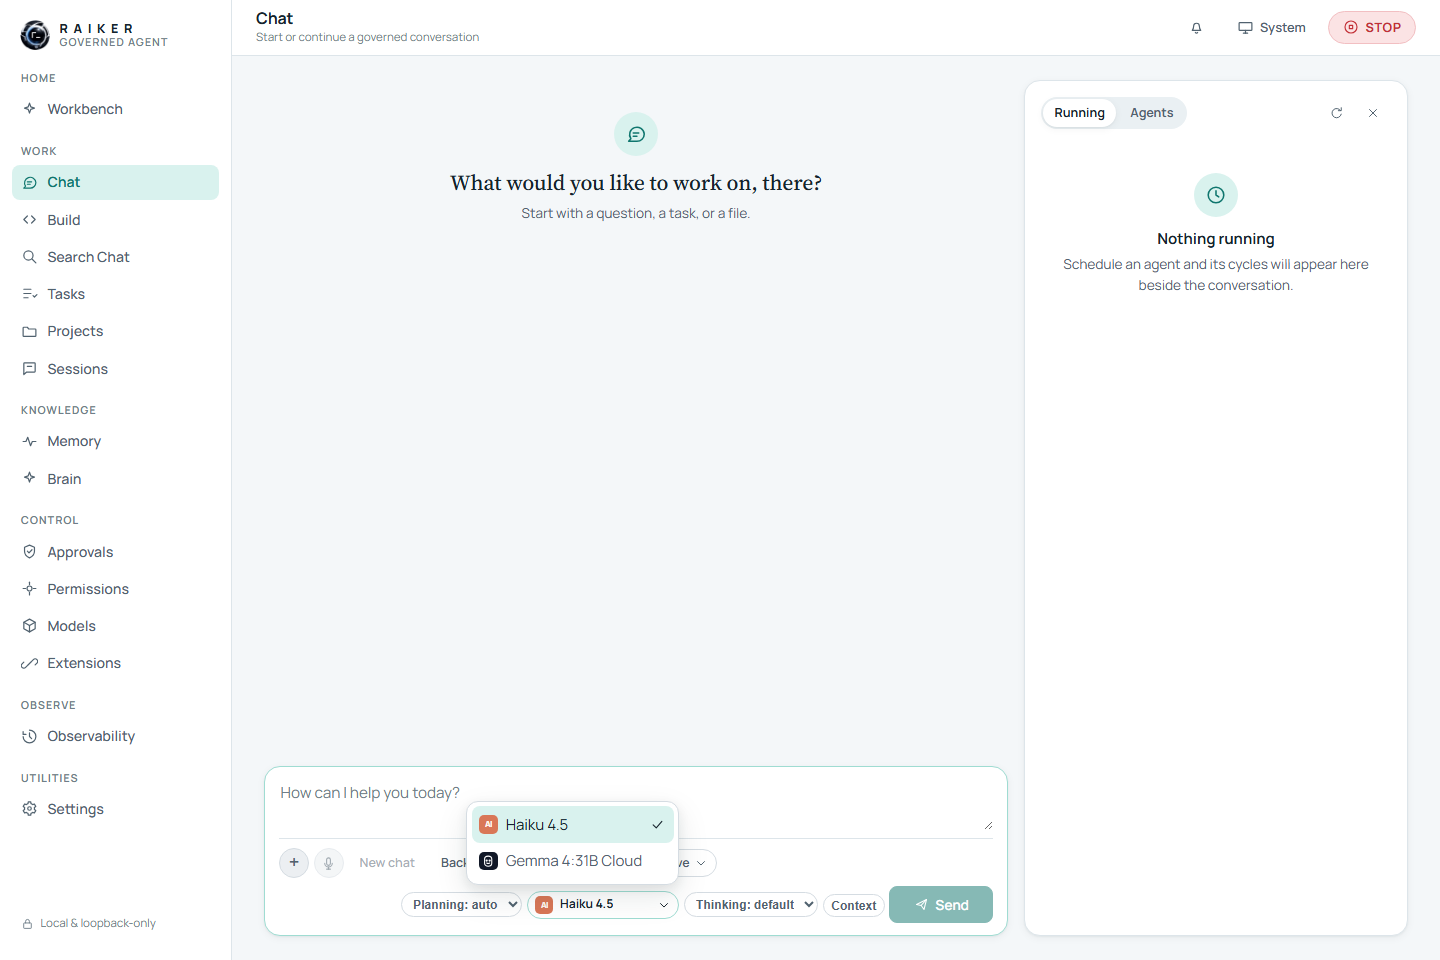
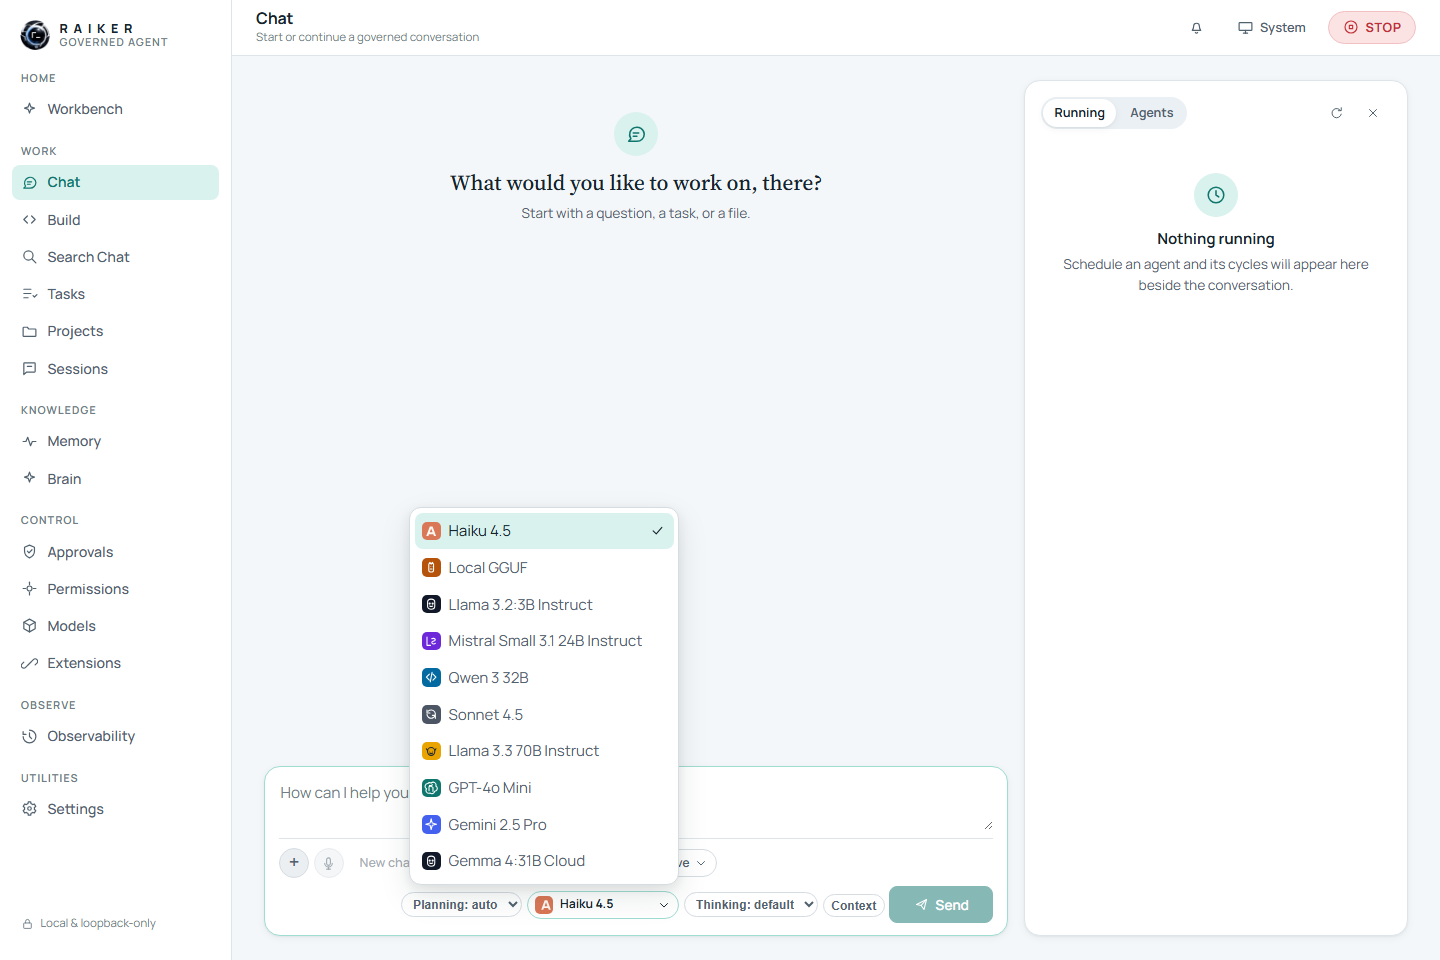
fix: cover all composer model providers

Changed region(s): [[0.2812, 0.5312, 0.4688, 0.9375]]

diff --git a/apps/web/src/lib/components/ProviderLogo.svelte b/apps/web/src/lib/components/ProviderLogo.svelte
@@ -3,23 +3,45 @@
 
   let { provider, size = 18 }: { provider: string; size?: number } = $props();
   const label = $derived(`${providerName(provider)} logo`);
-  const initials = $derived(provider === "anthropic" ? "AI" : provider === "openai" ? "O" : provider === "ollama" ? "O" : providerName(provider).slice(0, 1).toUpperCase());
+  const initials = $derived(providerName(provider).slice(0, 1).toUpperCase());
 </script>
 
-<span class:anthropic={provider === "anthropic"} class:ollama={provider === "ollama"} class:openai={provider === "openai"} class="provider-logo" role="img" aria-label={label} style={`--logo-size:${size}px`}>
-  {#if provider === "ollama"}
+<span class="provider-logo" data-provider={provider} role="img" aria-label={label} style={`--logo-size:${size}px`}>
+  {#if provider === "ollama" || provider === "ollama-cloud"}
     <svg viewBox="0 0 24 24" aria-hidden="true"><path d="M6 8.5c0-3 2.5-5 6-5s6 2 6 5v7c0 3-2.5 5-6 5s-6-2-6-5z"/><circle cx="9.5" cy="11" r="1"/><circle cx="14.5" cy="11" r="1"/><path d="M9.5 15c1.4 1 3.6 1 5 0"/></svg>
   {:else if provider === "openai"}
     <svg viewBox="0 0 24 24" aria-hidden="true"><path d="M12 3.5a4.7 4.7 0 0 1 7.8 4.9 4.7 4.7 0 0 1-1.9 8.8 4.7 4.7 0 0 1-7.8 2.8 4.7 4.7 0 0 1-5.9-6.9A4.7 4.7 0 0 1 6.1 4.3 4.7 4.7 0 0 1 12 3.5Z"/><path d="M9.2 7.4 15 10.7v6.6M8.4 16.4v-6.7l5.8-3.3"/></svg>
+  {:else if provider === "anthropic"}
+    <svg viewBox="0 0 24 24" aria-hidden="true"><path class="solid" d="M3.8 20 9.7 4h4.6l5.9 16h-3.5l-1.1-3H8.4l-1.1 3H3.8Zm5.8-6h4.8L12 7.4 9.6 14Z"/></svg>
+  {:else if provider === "gemini"}
+    <svg viewBox="0 0 24 24" aria-hidden="true"><path d="m12 3 1.8 7.2L21 12l-7.2 1.8L12 21l-1.8-7.2L3 12l7.2-1.8L12 3Z"/></svg>
+  {:else if provider === "huggingface"}
+    <svg viewBox="0 0 24 24" aria-hidden="true"><path d="M5.5 10.5 4 8m14.5 2.5L20 8M6 13a6 6 0 0 0 12 0v-1a6 6 0 0 0-12 0v1Z"/><circle cx="9.5" cy="12" r=".7" class="solid"/><circle cx="14.5" cy="12" r=".7" class="solid"/><path d="M9.5 15c1.4 1 3.6 1 5 0"/></svg>
+  {:else if provider === "openrouter"}
+    <svg viewBox="0 0 24 24" aria-hidden="true"><path d="M5 12a7 7 0 1 0 2-5M5 5v5h5M19 19v-5h-5"/></svg>
+  {:else if provider === "lm-studio" || provider === "lm-studio-remote"}
+    <svg viewBox="0 0 24 24" aria-hidden="true"><path d="M5 5v14h6M13 8c1.2-1 4.5-1 5.5.6.8 1.3.1 2.5-1.8 3.1l-1.5.5c-2.1.7-2.7 2-1.7 3.3 1.1 1.5 4.3 1.5 5.5.1"/></svg>
+  {:else if provider === "llama.cpp"}
+    <svg viewBox="0 0 24 24" aria-hidden="true"><path d="m8 7 2-3 2 3 2-3 2 3v10c0 2-2 3-4 3s-4-1-4-3V7Z"/><circle cx="10.5" cy="11" r=".7" class="solid"/><circle cx="13.5" cy="11" r=".7" class="solid"/><path d="M10.5 15h3"/></svg>
+  {:else if provider === "openai-compatible"}
+    <svg viewBox="0 0 24 24" aria-hidden="true"><path d="m9 7-5 5 5 5M15 7l5 5-5 5M13.5 4 10.5 20"/></svg>
   {:else}
-    <span>{initials}</span>
+    <svg viewBox="0 0 24 24" aria-hidden="true"><text x="12" y="16" text-anchor="middle">{initials}</text></svg>
   {/if}
 </span>
 
 <style>
-  .provider-logo { width: var(--logo-size); height: var(--logo-size); flex: 0 0 var(--logo-size); display: inline-grid; place-items: center; border-radius: 5px; background: color-mix(in srgb, var(--text-1) 10%, var(--surface)); color: var(--text-1); font-size: calc(var(--logo-size) * .46); font-weight: 800; letter-spacing: -.08em; line-height: 1; }
-  .provider-logo.anthropic { background: #d97757; color: #fff7f2; }
-  .provider-logo.ollama { background: #111827; color: #fff; }
-  .provider-logo.openai { background: #0f766e; color: #fff; }
+  .provider-logo { width: var(--logo-size); height: var(--logo-size); flex: 0 0 var(--logo-size); display: inline-grid; place-items: center; border-radius: 5px; background: color-mix(in srgb, var(--text-1) 10%, var(--surface)); color: var(--text-1); }
+  .provider-logo[data-provider="anthropic"] { background: #d97757; color: #fff7f2; }
+  .provider-logo[data-provider="ollama"], .provider-logo[data-provider="ollama-cloud"] { background: #111827; color: #fff; }
+  .provider-logo[data-provider="openai"] { background: #0f766e; color: #fff; }
+  .provider-logo[data-provider="gemini"] { background: #4361ee; color: #fff; }
+  .provider-logo[data-provider="huggingface"] { background: #e9a400; color: #1f2937; }
+  .provider-logo[data-provider="openrouter"] { background: #4b5563; color: #fff; }
+  .provider-logo[data-provider="lm-studio"], .provider-logo[data-provider="lm-studio-remote"] { background: #6d28d9; color: #fff; }
+  .provider-logo[data-provider="llama.cpp"] { background: #b45309; color: #fff; }
+  .provider-logo[data-provider="openai-compatible"] { background: #0369a1; color: #fff; }
   svg { width: 78%; height: 78%; fill: none; stroke: currentColor; stroke-width: 1.8; stroke-linecap: round; stroke-linejoin: round; }
+  .solid { fill: currentColor; stroke: none; }
+  text { fill: currentColor; font: 800 13px system-ui, sans-serif; stroke: none; }
 </style>

diff --git a/apps/web/src/lib/modelPresentation.ts b/apps/web/src/lib/modelPresentation.ts
@@ -1,26 +1,62 @@
 /** Display labels for provider-owned identifiers; the raw identifier still goes to the API. */
 export function modelName(model: string): string {
-  const claude = /^claude-(haiku|sonnet|opus)-(\d+)(?:-(\d+))?(?:-\d{8})?$/i.exec(model);
+  // Routed catalogues often prefix the provider (for example
+  // `meta-llama/Llama-3.3-70B-Instruct`). The provider has its own mark in the
+  // picker, so keep the model portion concise.
+  const identifier = model.split("/").at(-1) ?? model;
+  const claude = /^claude-(haiku|sonnet|opus)-(\d+)(?:-(\d+))?(?:-\d{8})?$/i.exec(identifier);
   if (claude) {
     const family = claude[1].charAt(0).toUpperCase() + claude[1].slice(1).toLowerCase();
     const version = claude[3] ? `${claude[2]}.${claude[3]}` : claude[2];
     return `${family} ${version}`;
   }
 
-  const gemma = /^gemma(\d+):(\d+)([bm])(?:-(.+))?$/i.exec(model);
+  const datedClaude = /^claude-(\d+)(?:-(\d+))?-(haiku|sonnet|opus)(?:-\d{8})?$/i.exec(identifier);
+  if (datedClaude) {
+    const version = datedClaude[2] ? `${datedClaude[1]}.${datedClaude[2]}` : datedClaude[1];
+    return `${word(datedClaude[3])} ${version}`;
+  }
+
+  const gemma = /^gemma(\d+):(\d+)([bm])(?:-(.+))?$/i.exec(identifier);
   if (gemma) {
     const suffix = gemma[4] ? ` ${words(gemma[4])}` : "";
     return `Gemma ${gemma[1]}:${gemma[2]}${gemma[3].toUpperCase()}${suffix}`;
   }
 
-  return words(model)
-    .replace(/\bGpt\b/g, "GPT")
-    .replace(/\bAi\b/g, "AI")
-    .replace(/\bLlm\b/g, "LLM");
+  const gemini = /^gemini-(\d+(?:\.\d+)*)(?:-(flash(?:-lite)?|pro|ultra))?/i.exec(identifier);
+  if (gemini) return `Gemini ${gemini[1]}${gemini[2] ? ` ${words(gemini[2])}` : ""}`;
+
+  const gpt = /^gpt-(\d+(?:\.\d+)?[a-z]?)(?:-(.+))?$/i.exec(identifier);
+  if (gpt) return `GPT-${gpt[1].toLowerCase()}${gpt[2] ? ` ${words(gpt[2])}` : ""}`;
+
+  const reasoning = /^o(\d+)(?:-(.+))?$/i.exec(identifier);
+  if (reasoning) return `o${reasoning[1]}${reasoning[2] ? ` ${words(reasoning[2])}` : ""}`;
+
+  return words(identifier);
 }
 
 function words(value: string): string {
   return value
+    .replace(/^meta-llama-/i, "")
+    .replace(/([a-z]{2,})(\d)/gi, "$1 $2")
     .replace(/[_-]+/g, " ")
-    .replace(/\b\w/g, (letter) => letter.toUpperCase());
+    .split(/\s+/)
+    .filter(Boolean)
+    .map(word)
+    .join(" ");
+}
+
+function word(value: string): string {
+  if (/^\d+(?:\.\d+)?[bm]$/i.test(value)) return value.toUpperCase();
+  if (/^[a-z]\d+:\d+[bm]$/i.test(value)) return `${value.charAt(0).toUpperCase()}${value.slice(1, -1)}${value.at(-1)?.toUpperCase()}`;
+  if (/^.+:\d+[bm]$/i.test(value)) return value.replace(/[bm]$/i, (size) => size.toUpperCase());
+
+  const known: Record<string, string> = {
+    ai: "AI",
+    deepseek: "DeepSeek",
+    gguf: "GGUF",
+    gpt: "GPT",
+    llm: "LLM",
+  };
+  return known[value.toLowerCase()] ?? `${value.charAt(0).toUpperCase()}${value.slice(1).toLowerCase()}`;
 }

diff --git a/apps/web/src/lib/modelPresentation.test.ts b/apps/web/src/lib/modelPresentation.test.ts
@@ -8,6 +8,20 @@ describe("modelName", () => {
     expect(modelName("claude-opus-4-1-20250805")).toBe("Opus 4.1");
   });
 
+  it.each([
+    ["local-gguf", "Local GGUF"],
+    ["llama3.2:3b-instruct", "Llama 3.2:3B Instruct"],
+    ["mistral-small-3.1-24b-instruct", "Mistral Small 3.1 24B Instruct"],
+    ["Qwen/Qwen3-32B", "Qwen 3 32B"],
+    ["anthropic/claude-sonnet-4-5-20250929", "Sonnet 4.5"],
+    ["meta-llama/Llama-3.3-70B-Instruct", "Llama 3.3 70B Instruct"],
+    ["gpt-4o-mini", "GPT-4o Mini"],
+    ["gemini-2.5-pro-preview-06-05", "Gemini 2.5 Pro"],
+    ["deepseek/deepseek-r1:70b", "DeepSeek R1:70B"],
+  ])("formats discovered provider model %s as %s", (identifier, expected) => {
+    expect(modelName(identifier)).toBe(expected);
+  });
+
   it("keeps unrecognised identifiers readable without changing them at the API boundary", () => {
     expect(modelName("reasoning-model")).toBe("Reasoning Model");
   });

diff --git a/apps/web/src/lib/components/ProviderLogo.test.ts b/apps/web/src/lib/components/ProviderLogo.test.ts
@@ -1,0 +1,23 @@
+import { render } from "@testing-library/svelte";
+import { describe, expect, it } from "vitest";
+import ProviderLogo from "./ProviderLogo.svelte";
+
+const configuredProviders = [
+  "llama.cpp",
+  "ollama",
+  "ollama-cloud",
+  "lm-studio",
+  "openai-compatible",
+  "openrouter",
+  "huggingface",
+  "anthropic",
+  "openai",
+  "gemini",
+];
+
+describe("ProviderLogo", () => {
+  it.each(configuredProviders)("renders a provider mark for %s", (provider) => {
+    const { getByRole } = render(ProviderLogo, { provider });
+    expect(getByRole("img", { name: /logo$/i }).querySelector("svg")).not.toBeNull();
+  });
+});

diff --git a/apps/web/README.md b/apps/web/README.md
@@ -21,9 +21,10 @@ RuntimeAuthority, and append-only audit log as the terminal client.
 
 ### Composer model picker
 
-Chat and Build share a compact model picker: a provider mark, a concise model
-label (for example, `Haiku 4.5` or `Gemma 4:31B Cloud`), and the model's effort
-control. Provider and model identifiers remain unchanged at the API boundary.
+Chat and Build share a compact model picker: a provider mark for every
+configured provider, a concise model label (for example, `Haiku 4.5`,
+`Gemma 4:31B Cloud`, or `Gemini 2.5 Pro`), and the model's effort control.
+Provider and model identifiers remain unchanged at the API boundary.
 
 ## Shared shell
 
